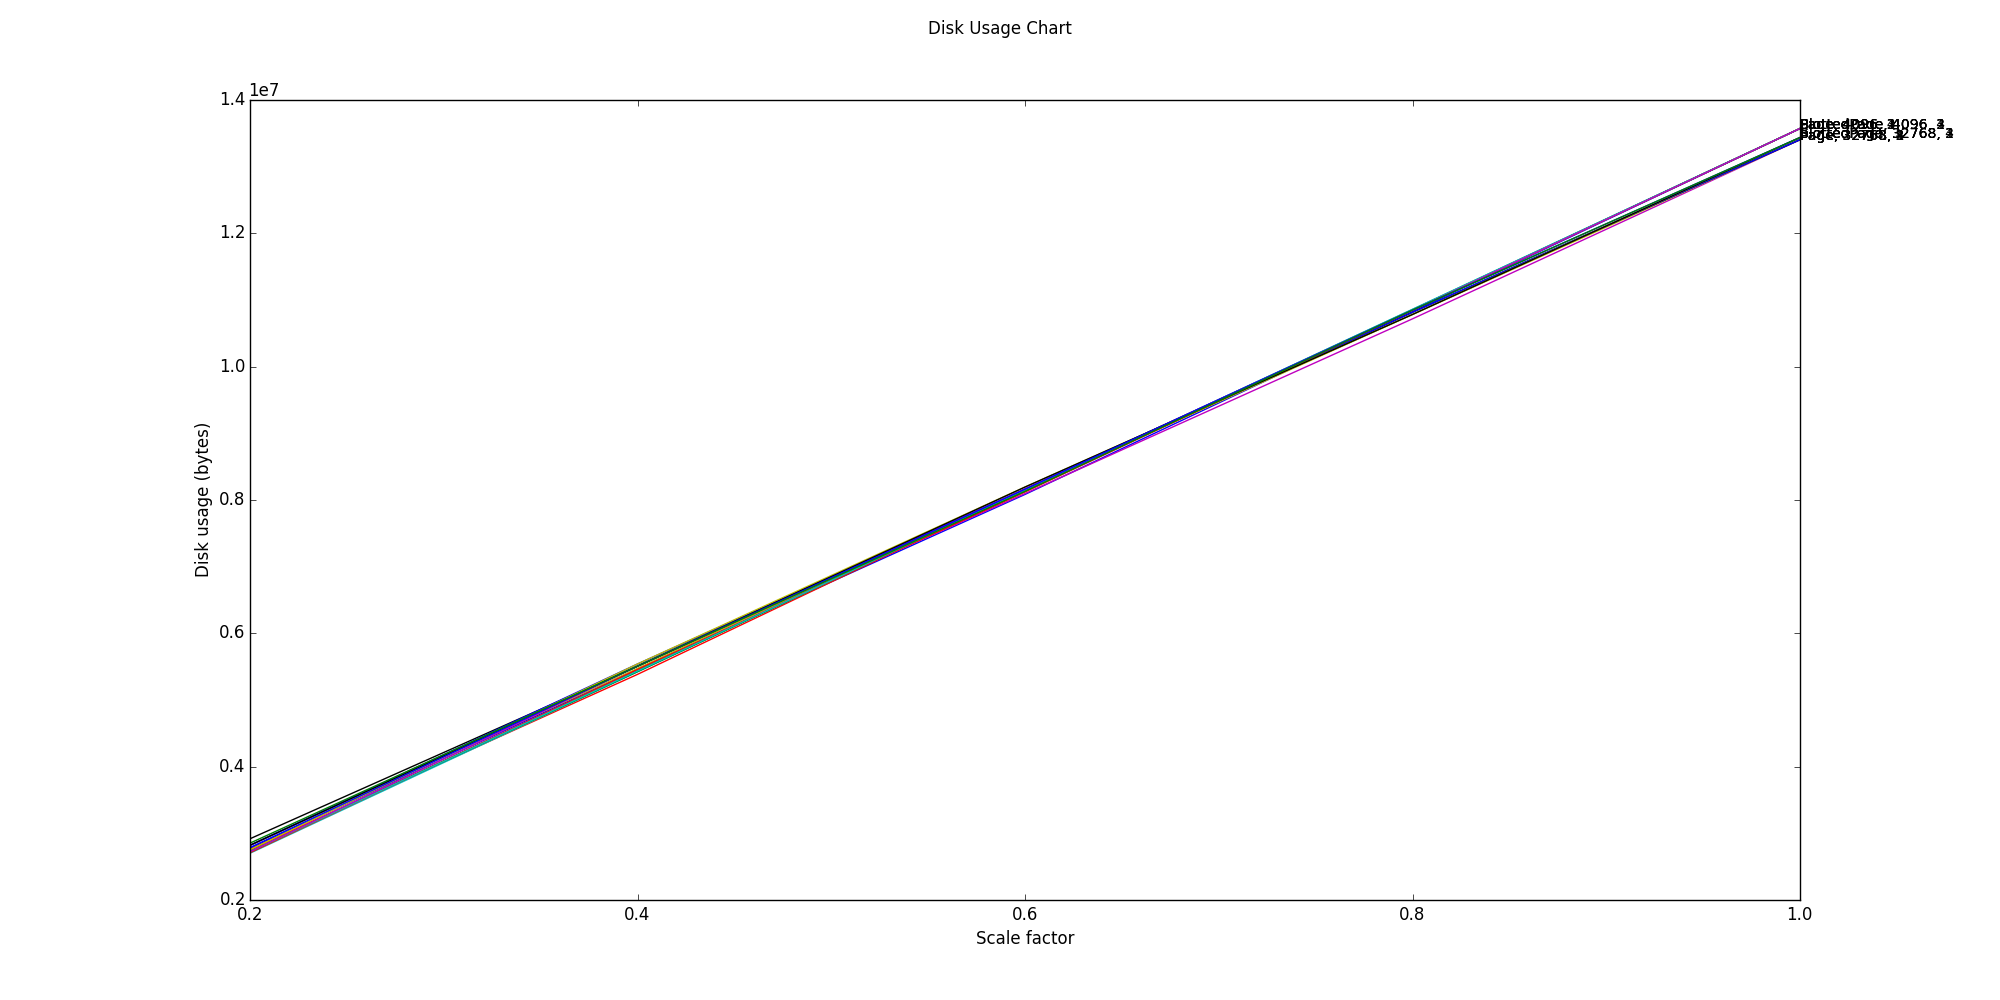
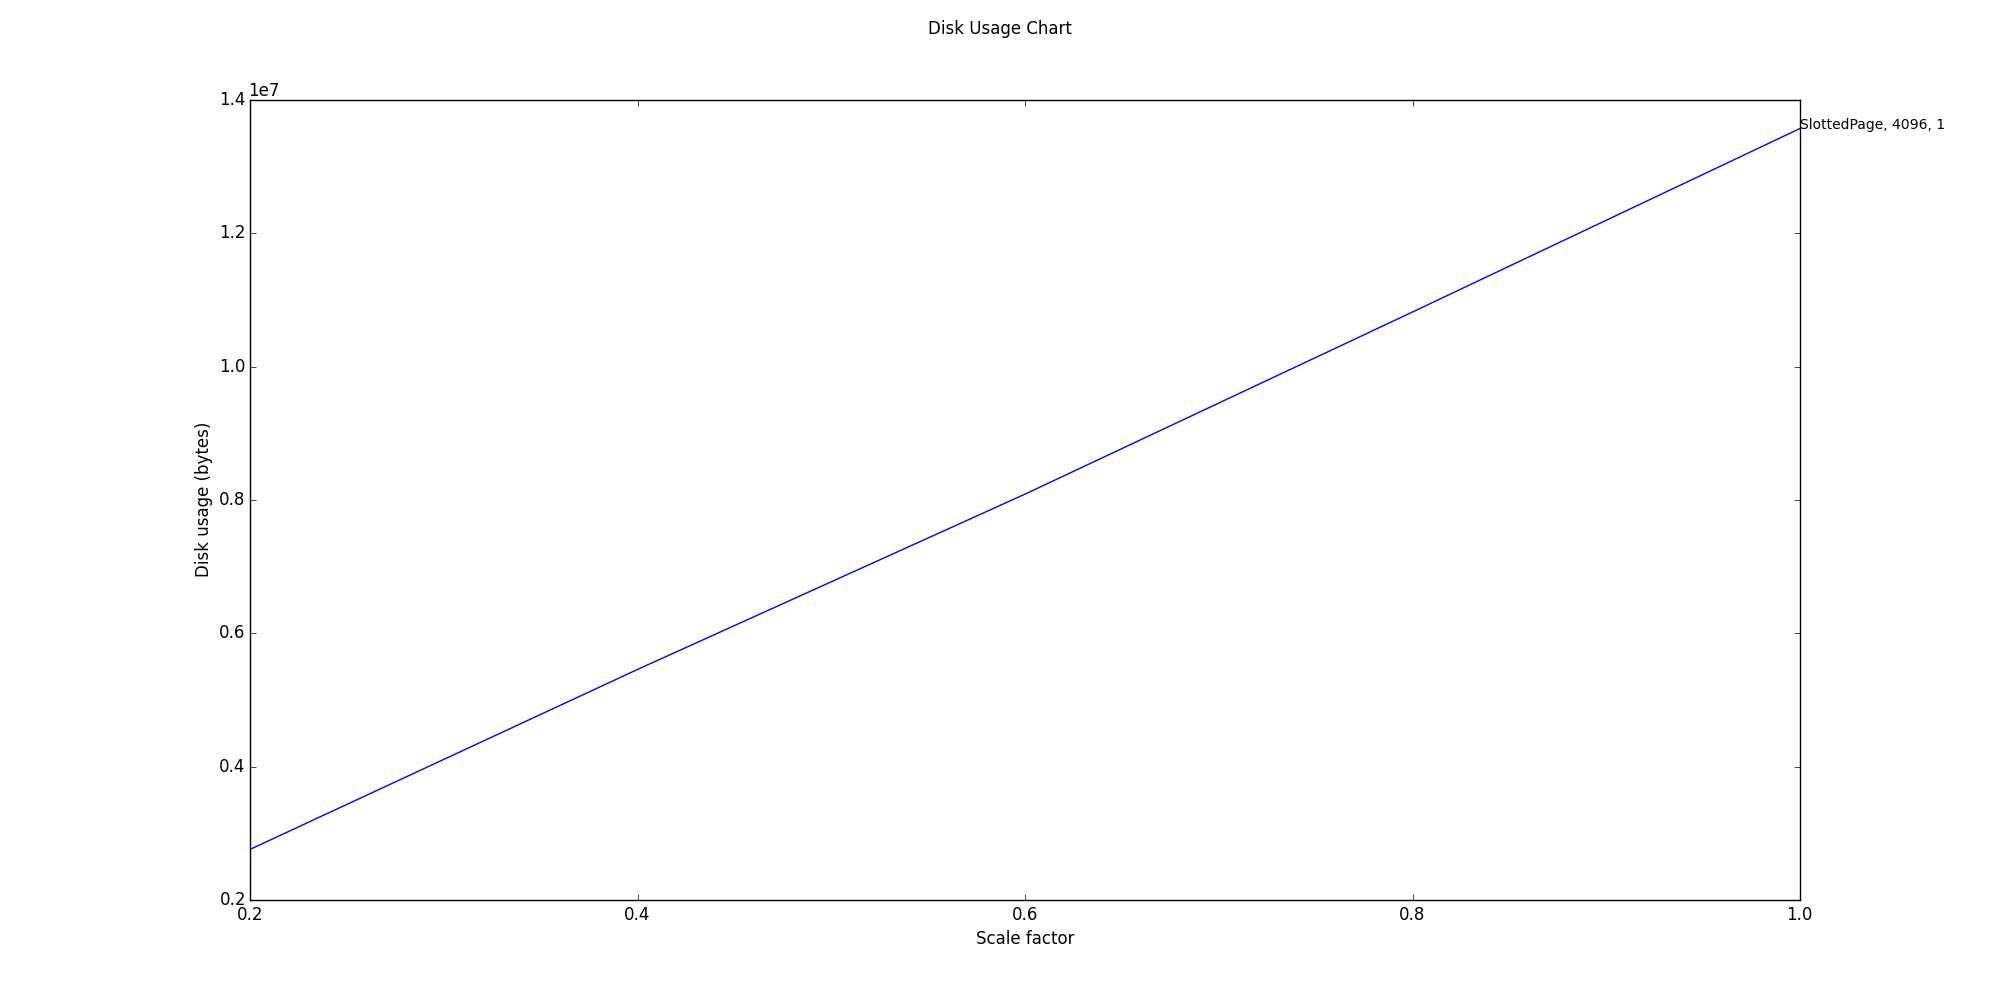
fix experiment, get disk usage

diff --git a/dbsys-hw1/Experiment.py b/dbsys-hw1/Experiment.py
@@ -31,6 +31,7 @@ diskUsageResult = []
 exp = []
 wg = WorkloadGenerator()
 for pageClass in [Page, SlottedPage]:
+# for pageClass in [SlottedPage]:
     StorageFile.defaultPageClass = pageClass
     for pageSize in [4096, 32768]:
         for workloadMode in [1, 2, 3, 4]:
@@ -50,12 +51,7 @@ for pageClass in [Page, SlottedPage]:
                             folder_size += os.path.getsize(filename)
                             os.remove(filename)
                 print("Disk usage:", folder_size)
-                # diskUsage = (sum([os.path.getsize(f) for f in os.listdir('./data') if os.path.isfile(f)]))
-                # print([f for f in os.listdir('./data') if os.path.isfile(f)])
-                # diskUsage = (sum([os.path.getsize(f) for f in os.listdir('./data')]))
-                # print(tuples, throughput, execTime, diskUsage)
-                # print(pageClass.__name__ + ", " + str(pageSize) + ", " + str(workloadMode))
-                # print(diskusage)
+
                 throughputResult[-1].append((scaleFactor, throughput))
                 diskUsageResult[-1].append((scaleFactor, folder_size))
 
@@ -65,7 +61,7 @@ print(exp)
 plt.title("Throughput")
 fig, ax = plt.subplots(figsize=(20, 10))
 plt.xticks([0.2 * i for i in range(1, 6)])
-fig.suptitle("Disk Usage Chart")
+fig.suptitle("Throughput Chart")
 ax.set_xlabel('Scale factor')
 ax.set_ylabel('Throughput (no. of tuple / second)')
 ax.text(1, 1, "Experiment: page type, page size, workload mode")
@@ -85,6 +81,7 @@ plt.xticks([0.2 * i for i in range(1, 6)])
 fig.suptitle("Disk Usage Chart")
 ax.set_xlabel('Scale factor')
 ax.set_ylabel('Disk usage (bytes)')
+ax.text(1, 1, "Experiment: page type, page size, workload mode")
 for i in range(len(exp)):
     x = [d[0] for d in diskUsageResult[i]]
     y = [d[1] for d in diskUsageResult[i]]
